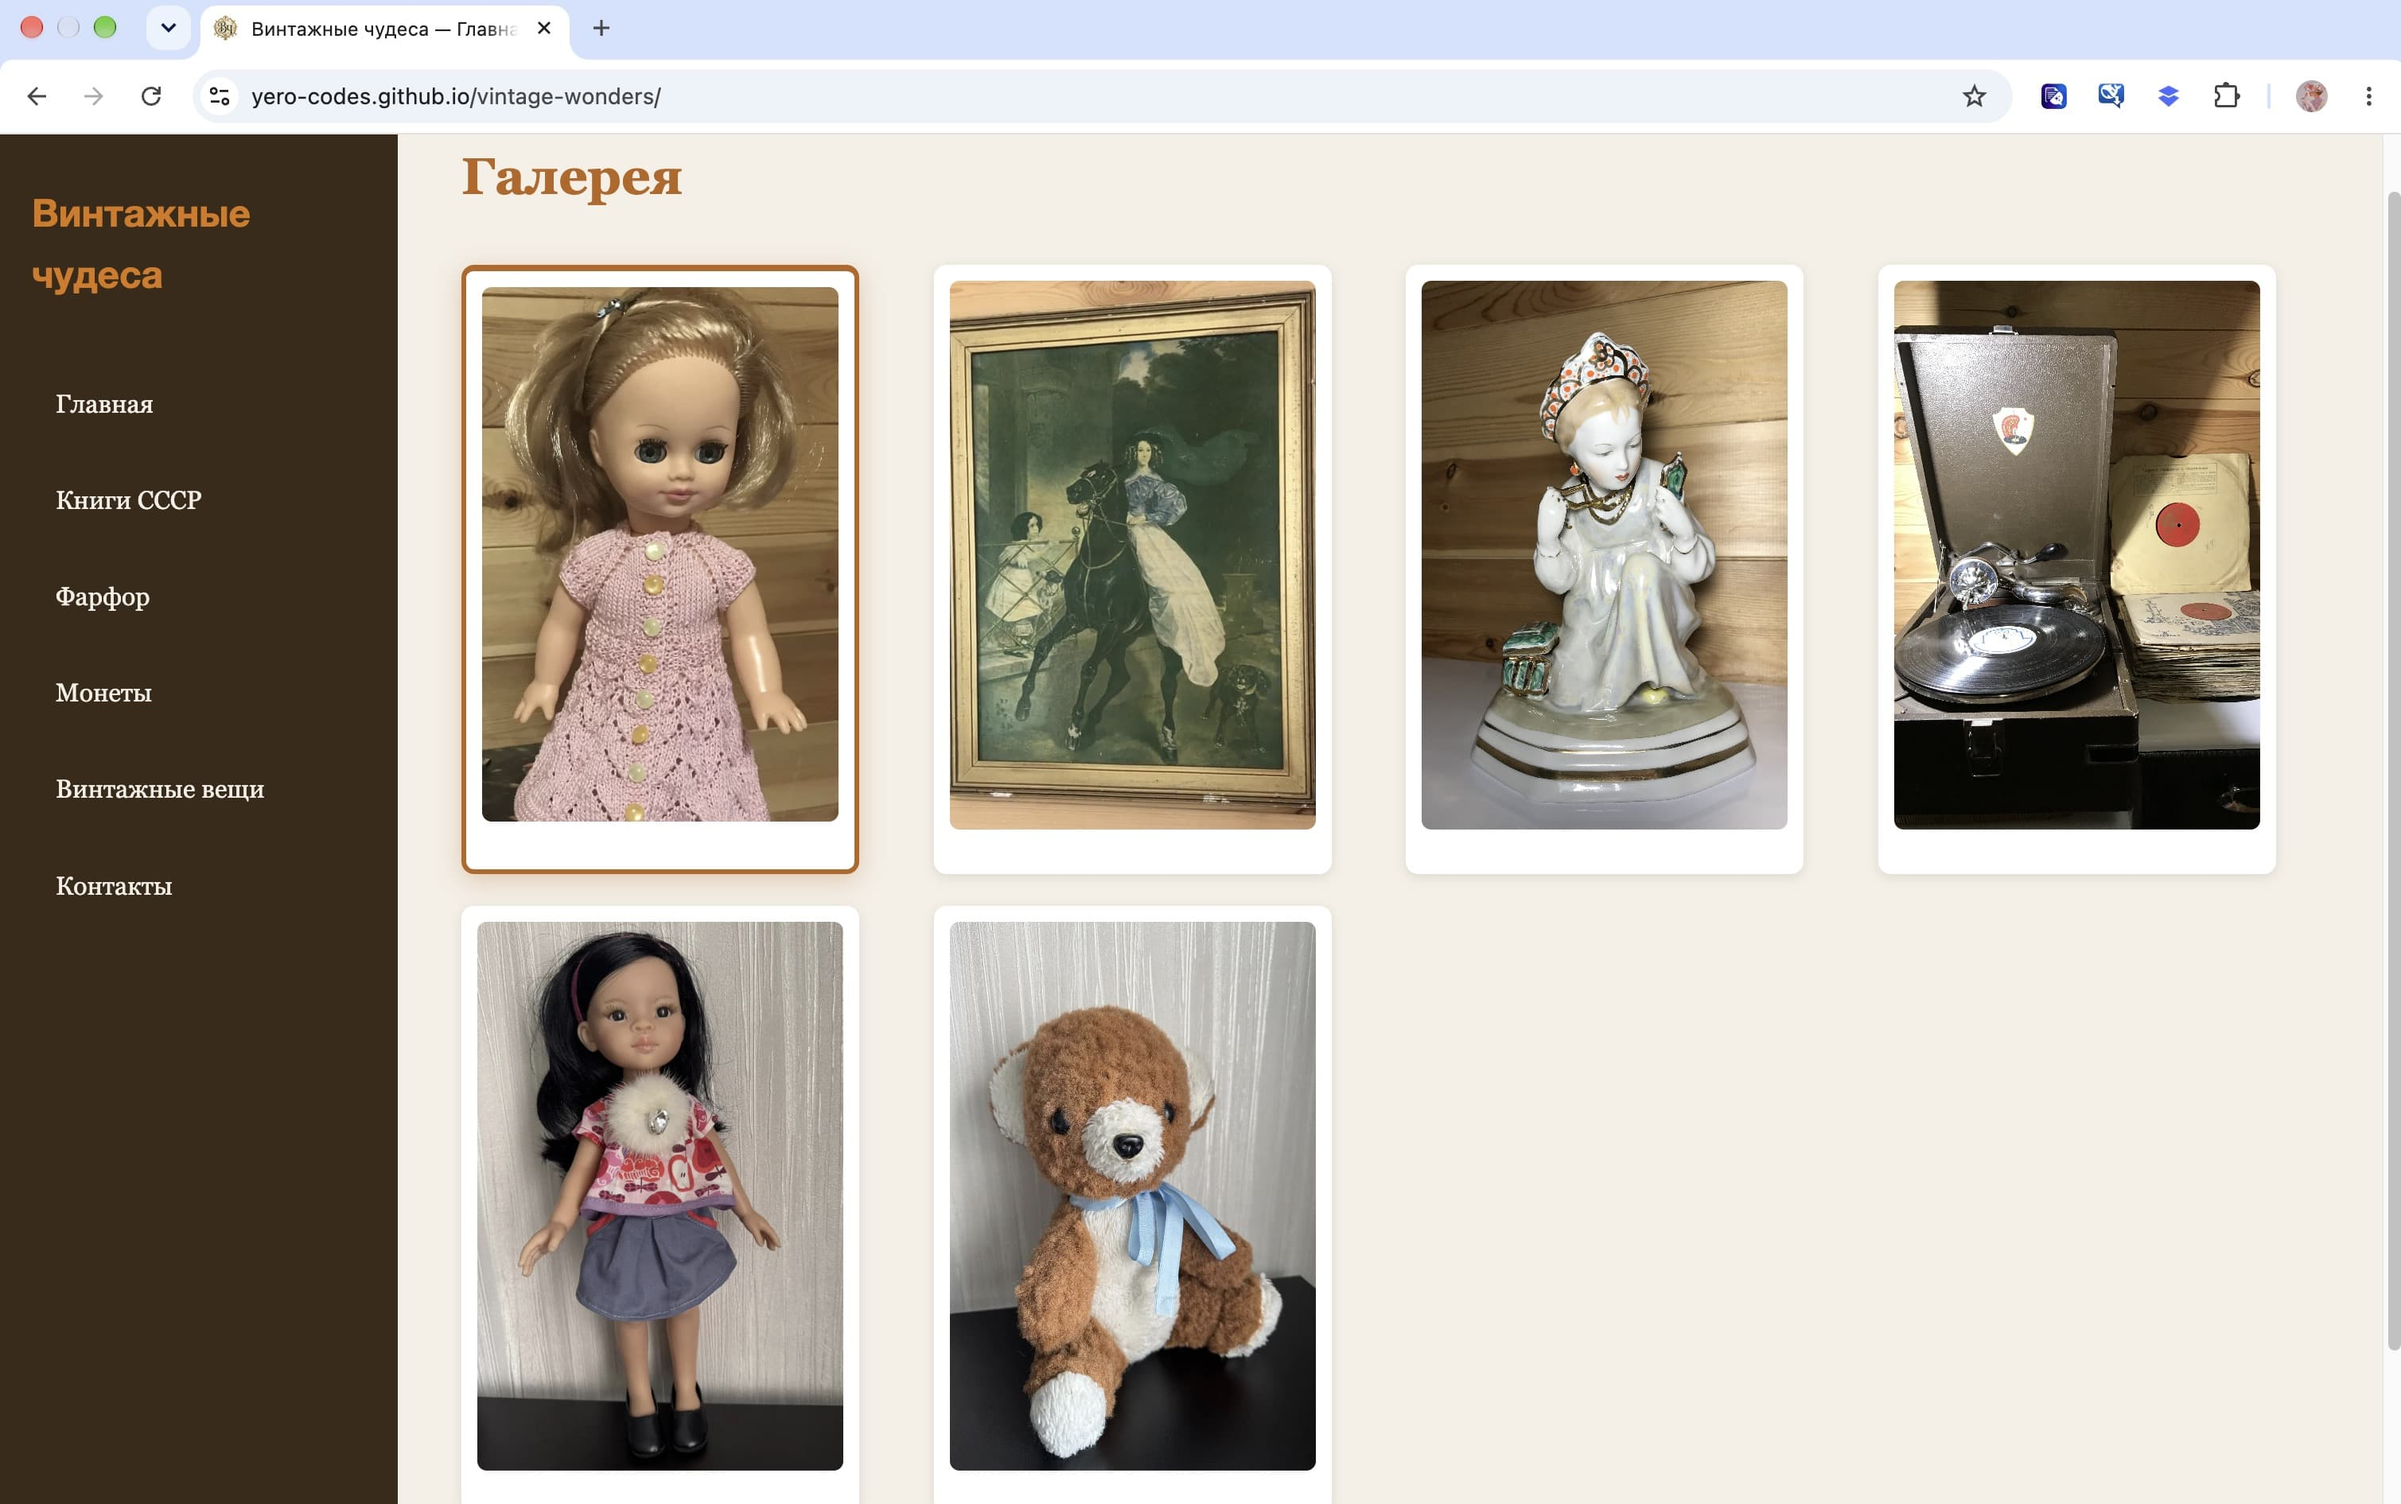
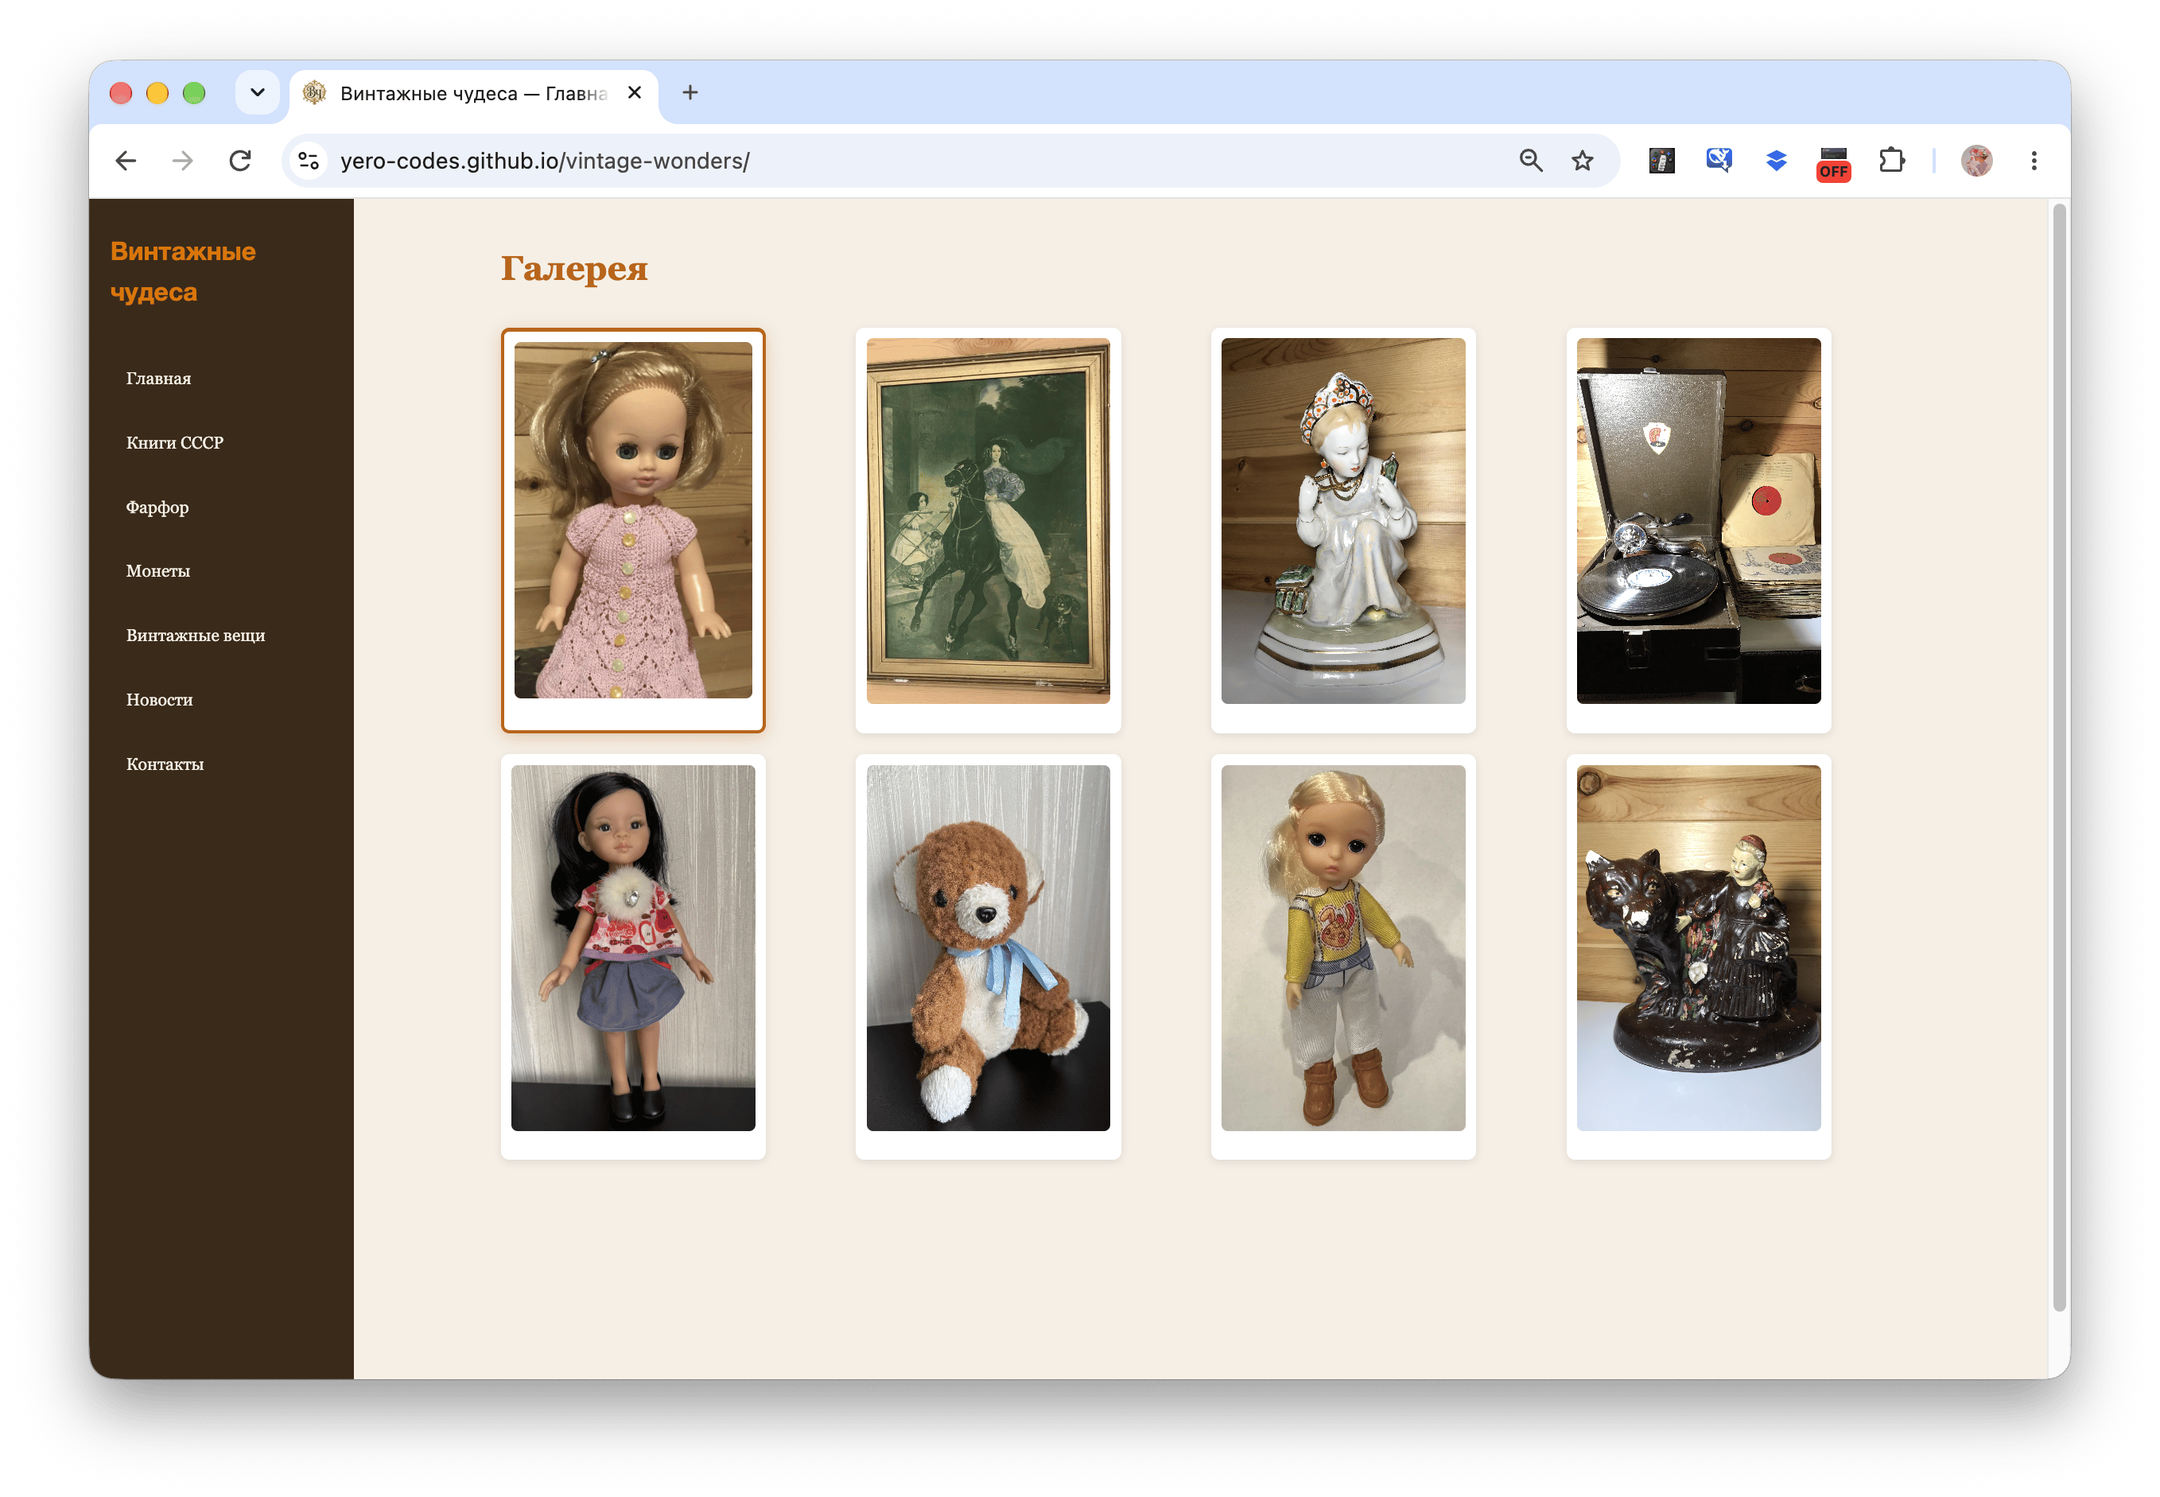
Обновила README и скриншоты для первого проекта

diff --git a/README.md b/README.md
@@ -4,7 +4,8 @@
 
 ## Живой сайт
 
-[yero-codes.github.io/vintage-wonders](https://yero-codes.github.io/vintage-wonders/)
+- **Текущая версия (Vanilla JS):** [yero-codes.github.io/vintage-wonders](https://yero-codes.github.io/vintage-wonders/)
+- **React-версия:** [yero-codes.github.io/vintage-react](https://yero-codes.github.io/vintage-react/)
 
 ## Скриншоты
 
@@ -24,6 +25,7 @@
 - `money.html` — монеты и банкноты
 - `vintagethings.html` — винтажные вещи
 - `contacts.html` — контакты и форма
+- `news.html` — новости (поиск, сортировка, модалка)
 
 ## Технологии
 
@@ -33,6 +35,7 @@
 - Адаптив: телефон, планшет, компьютер
 - Форма: Formspree
 - Хостинг: GitHub Pages
+- JavaScript (fetch, async/await, localStorage)
 
 ## Что освоено
 
@@ -46,6 +49,11 @@
 - Оптимизация картинок
 - Lighthouse: 100/100/100/91
 - Git и GitHub
+- Дебаунс (Debounce) для поиска
+- Всплывающие уведомления (Toast) вместо alert
+- Отправка формы через fetch (AJAX)
+- Сохранение черновика формы в localStorage
+- Делегирование событий для модальных окон
 
 ## Структура
    ```
@@ -55,6 +63,7 @@ vintage-wonders/
 ├── farfor.html
 ├── money.html
 ├── vintagethings.html
+├── news.html
 ├── contacts.html
 ├── style.css
 ├── script.js
